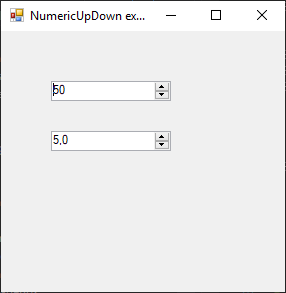
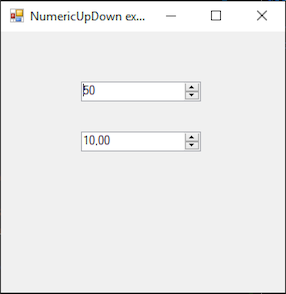
add documentations

diff --git a/System.Windows.Forms/NumericUpDown/NumericUpDown.cs b/System.Windows.Forms/NumericUpDown/NumericUpDown.cs
@@ -13,18 +13,15 @@ namespace Examples {
 
       this.numericUpDown1.Parent = this;
       this.numericUpDown1.DecimalPlaces = 0;
-      this.numericUpDown1.Location = new System.Drawing.Point(50, 50);
-      this.numericUpDown1.Maximum = 100;
-      this.numericUpDown1.Minimum = 0;
+      this.numericUpDown1.Location = new System.Drawing.Point(80, 50);
       this.numericUpDown1.Value = 50;
 
       this.numericUpDown2.Parent = this;
-      this.numericUpDown2.DecimalPlaces = 1;
-      this.numericUpDown2.Increment = 0.1M;
-      this.numericUpDown2.Location = new System.Drawing.Point(50, 100);
-      this.numericUpDown2.Maximum = 10.0M;
-      this.numericUpDown2.Minimum = 0;
-      this.numericUpDown2.Value = 5.0M;
+      this.numericUpDown2.DecimalPlaces = 2;
+      this.numericUpDown2.Increment = 0.01M;
+      this.numericUpDown2.Location = new System.Drawing.Point(80, 100);
+      this.numericUpDown2.Maximum = 11.0M;
+      this.numericUpDown2.Minimum = 10.0M;
     }
 
     private NumericUpDown numericUpDown1 = new NumericUpDown();

diff --git a/System.Windows.Forms/README.md b/System.Windows.Forms/README.md
@@ -41,7 +41,7 @@
 * **ToolTip** Represents a small rectangular pop-up window that displays a brief description of a control's purpose when the user rests the pointer on the control.
 * [TrackBar](./TrackBar/README.md) represents a standard Windows track bar.
 * **TreeView** displays a hierarchical collection of labeled items, each represented by a TreeNode.
-* **VScroolBar** represents a standard Windows vertical scroll bar.
+* [VScrollBar](VScrollBar/README.md) represents a standard Windows vertical scroll bar.
 * **WebBrowser** enables the user to navigate Web pages inside your form.
 
 ## Containers

diff --git a/System.Windows.Forms/VScrollBar/README.md b/System.Windows.Forms/VScrollBar/README.md
@@ -1,0 +1,16 @@
+# VScrollBar
+
+[This example](.) demonstrates the use of System.Windows.Forms.VScrollBar control.
+
+# Sources
+
+[VScrollBar.cs](VScrollBar.cs)
+
+# Build and run
+
+Open [VScrollBar.csproj](VScrollBar.csproj)
+
+# Output
+
+![Screenshot](../../docs/Pictures/Forms/VScrollBar.png)
+
